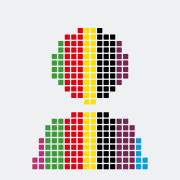
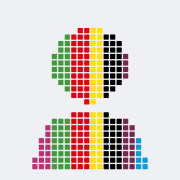
App-Symbol: Variante C eingebaut
FDP und BSW je zwei Spalten, Raster leicht nach rechts versetzt. Neuer
Standard in pipeline/appicon; iOS-Asset, Favicon und Apple-Touch-Icon neu.

diff --git a/pipeline/appicon.swift b/pipeline/appicon.swift
@@ -1,9 +1,9 @@
 // Zeichnet das App-Symbol „Mosaik-Kopf“ als PNG (ohne abgerundete Ecken, die setzt iOS selbst).
 //
 // Kopf und Schultern aus kleinen Kacheln. Jede Spalte gehört einer Partei, von links nach rechts:
-// Linke, Grüne, SPD, FDP, Union, BSW, AfD. Die FDP hat zwei Spalten, alle anderen drei
-// (Entscheidung nach der Symbol-Runde vom 17.10.2026). Grün liegt noch im Kopf, das
-// AfD-Blau ganz rechts und die Linke ganz links nur in den Schultern.
+// Linke, Grüne, SPD, FDP, Union, BSW, AfD. FDP und BSW haben je zwei Spalten, alle anderen drei;
+// das Raster ist leicht nach rechts versetzt (Variante c, Entscheidung vom 17.10.2026).
+// Grün und BSW liegen noch im Kopf, Linke und AfD in den Schultern (AfD mit zwei Spalten).
 //
 // Aufruf: swiftc -O pipeline/appicon.swift -o pipeline/appicon
 //         pipeline/appicon <ausgabe.png> [größe]   (Standard 1024)
@@ -23,9 +23,10 @@ func rgb(_ hex: UInt32) -> CGColor {
 
 let background = rgb(0xEEF0F4)
 // Offizielle Parteifarben (Wikidata P465, FDP: Gelb von fdp.de; siehe pipeline/colors.py) und Spaltenzahl je Partei
-// Varianten (dritter Aufrufparameter): "a" = eingebaut, "b" = BSW 2 Spalten, Raster weit nach rechts,
+// Varianten (dritter Aufrufparameter, Standard "c" = eingebaut seit 17.10.2026):
+// "a" = erste Fassung (BSW 3 Spalten, Raster mittig), "b" = BSW 2 Spalten, Raster weit nach rechts,
 // "c" = BSW 2 Spalten, Raster leicht nach rechts (AfD 2 Spalten sichtbar, BSW noch im Kopf, Linke 3 Spalten)
-let variant = CommandLine.arguments.count > 3 ? CommandLine.arguments[3] : "a"
+let variant = CommandLine.arguments.count > 3 ? CommandLine.arguments[3] : "c"
 let parties: [(color: UInt32, columns: Int)] = [
     (0xBE3075, 3),                    // Linke
     (0x409A3C, 3),                    // Grüne

diff --git a/README.md b/README.md
@@ -19,7 +19,7 @@ Alle Farben stammen aus Wikidata (Eigenschaft P465, `pipeline/colors.py`). Das s
 
 ## App-Symbol
 
-„Mosaik-Kopf“: Kopf und Schultern aus kleinen Kacheln, jede Spalte gehört einer Partei. Von links nach rechts Linke, Grüne, SPD, FDP, Union, BSW, AfD in den offiziellen Parteifarben. Die FDP hat zwei Spalten, alle anderen drei. Erzeugt mit `pipeline/appicon.swift`, Vorlage in `docs/brand/app-symbol-1024.png`. Die Entwürfe der Symbol-Runden liegen als Artifacts vor (Symbol-Werkstatt, Mosaik-Varianten).
+„Mosaik-Kopf“: Kopf und Schultern aus kleinen Kacheln, jede Spalte gehört einer Partei. Von links nach rechts Linke, Grüne, SPD, FDP, Union, BSW, AfD in den offiziellen Parteifarben. FDP und BSW haben je zwei Spalten, alle anderen drei; das Raster ist leicht nach rechts versetzt, sodass Grün und BSW im Kopf und Linke und AfD in den Schultern liegen. Frühere Fassungen: `pipeline/appicon <datei> 1024 a|b`, Vergleiche in `docs/brand/`. Erzeugt mit `pipeline/appicon.swift`, Vorlage in `docs/brand/app-symbol-1024.png`. Die Entwürfe der Symbol-Runden liegen als Artifacts vor (Symbol-Werkstatt, Mosaik-Varianten).
 
 ## Herkunft der Daten
 
